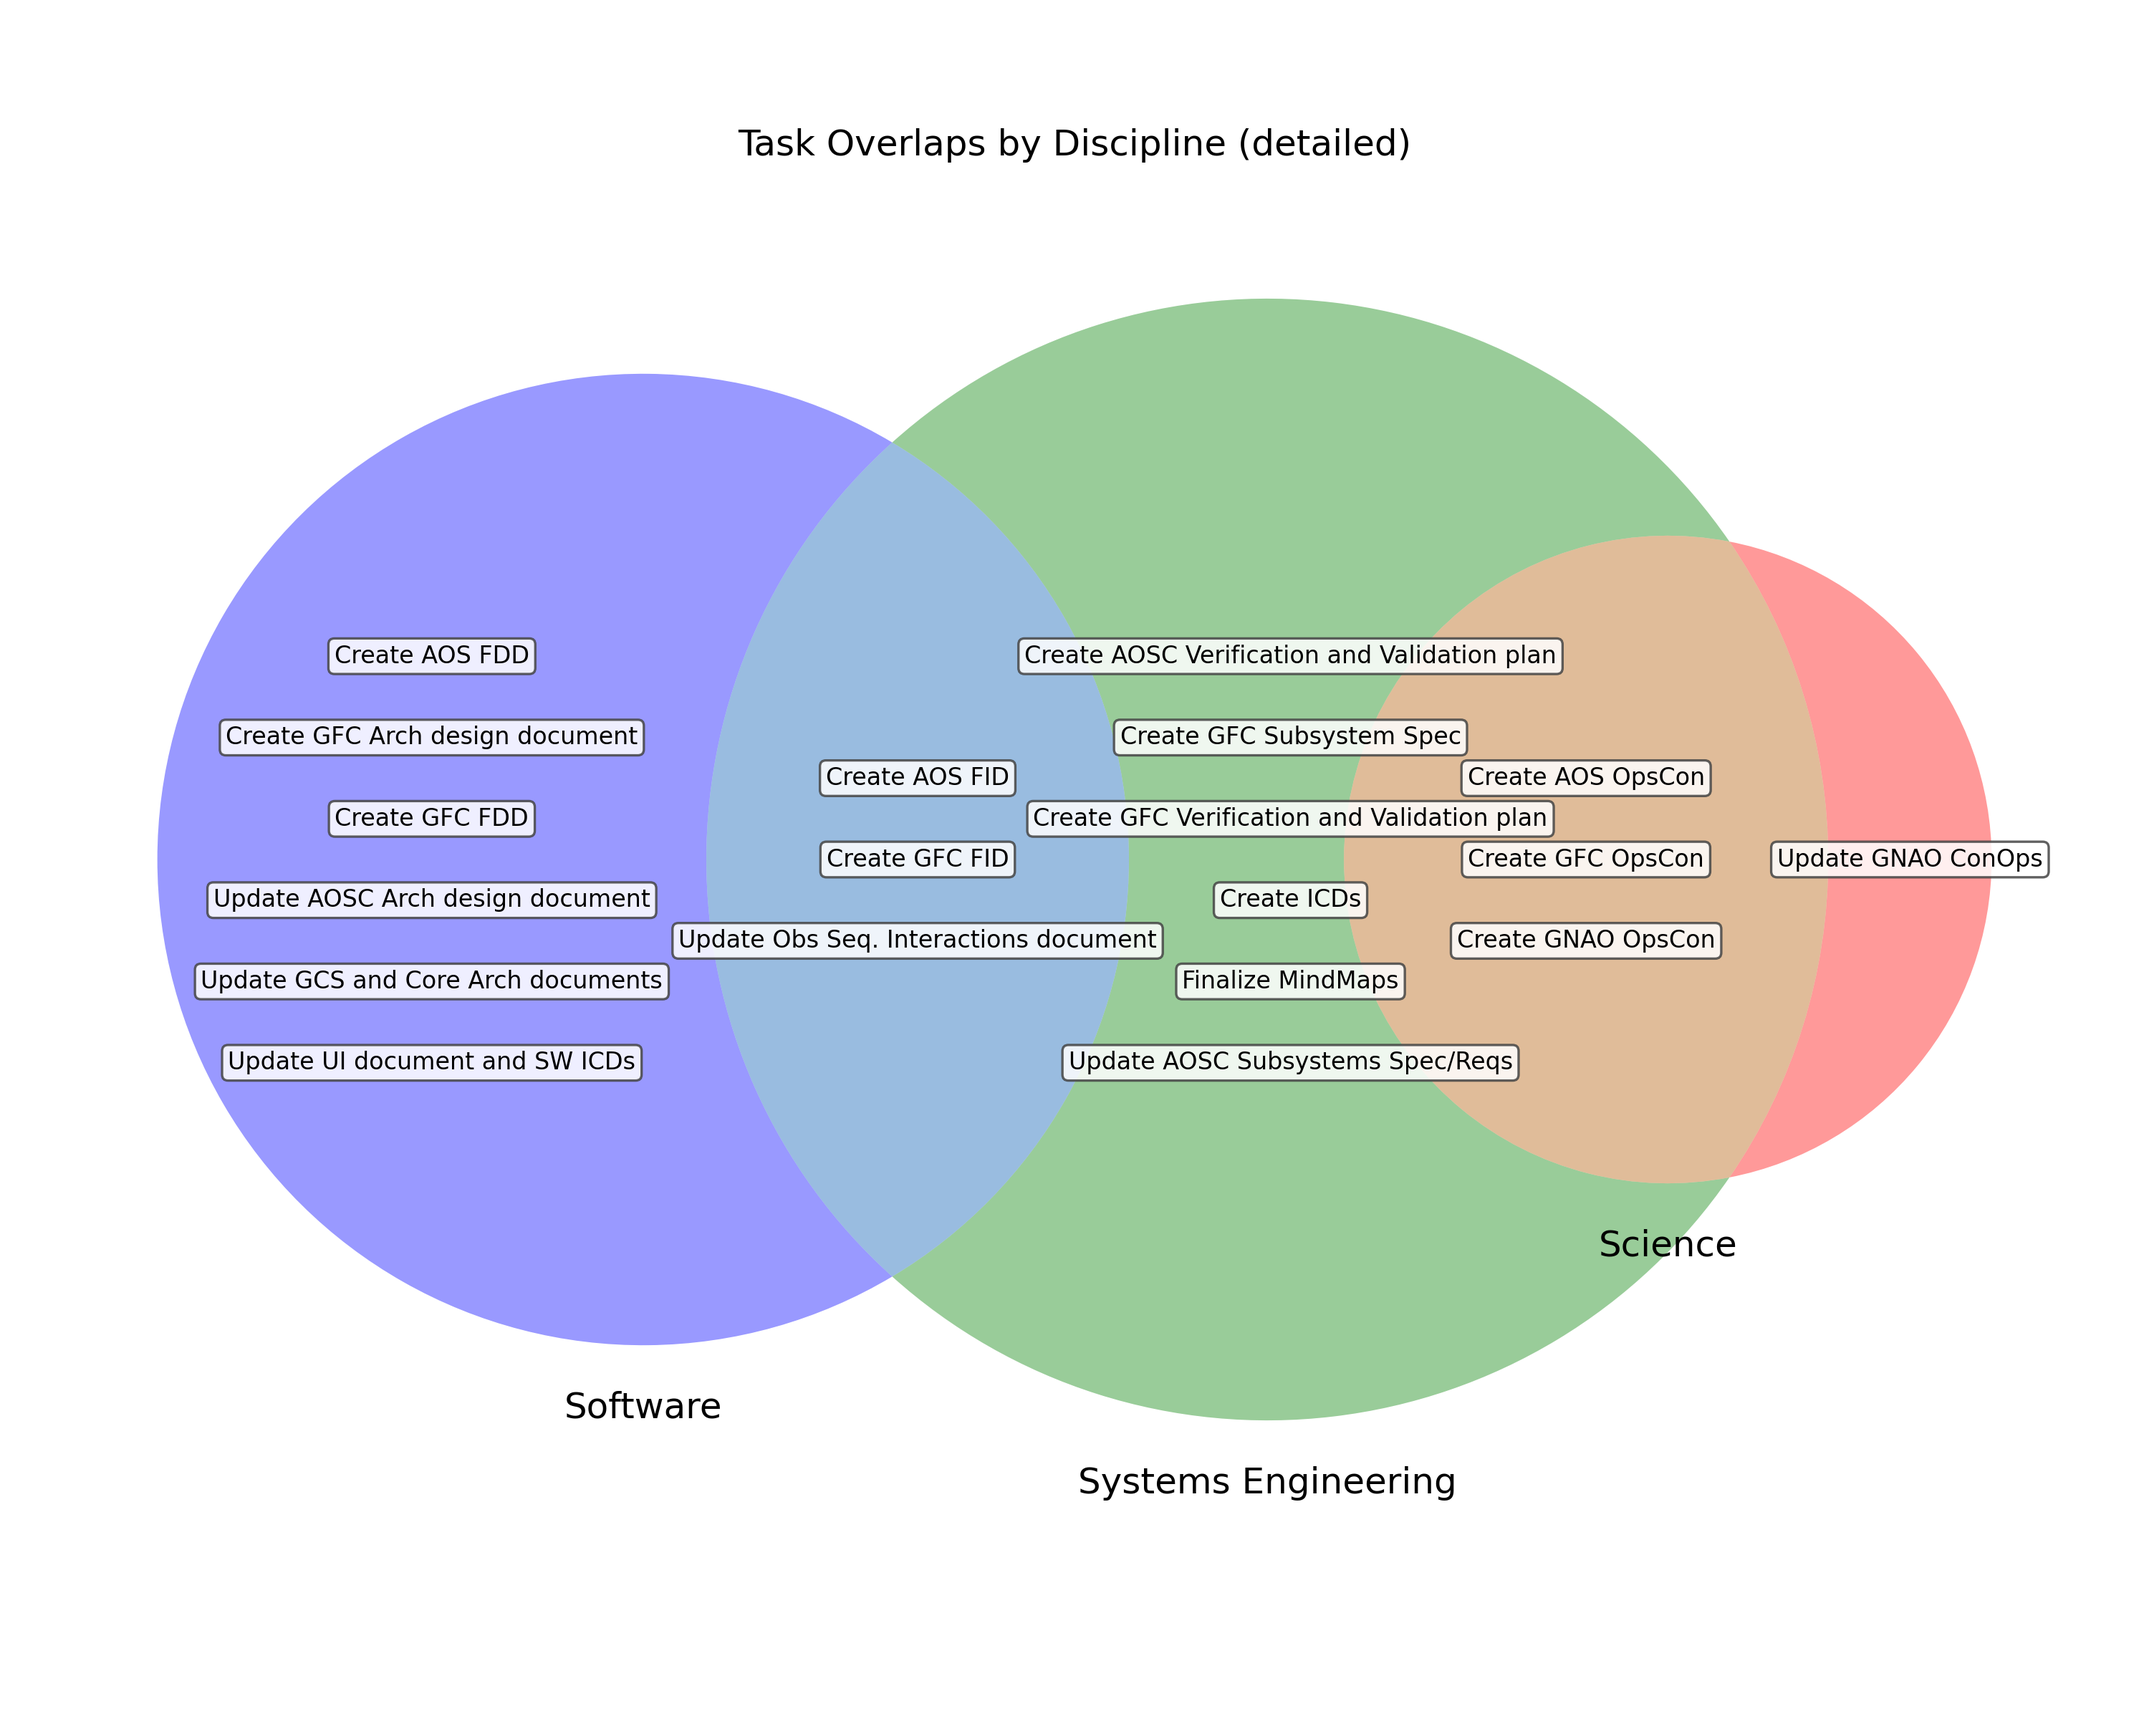
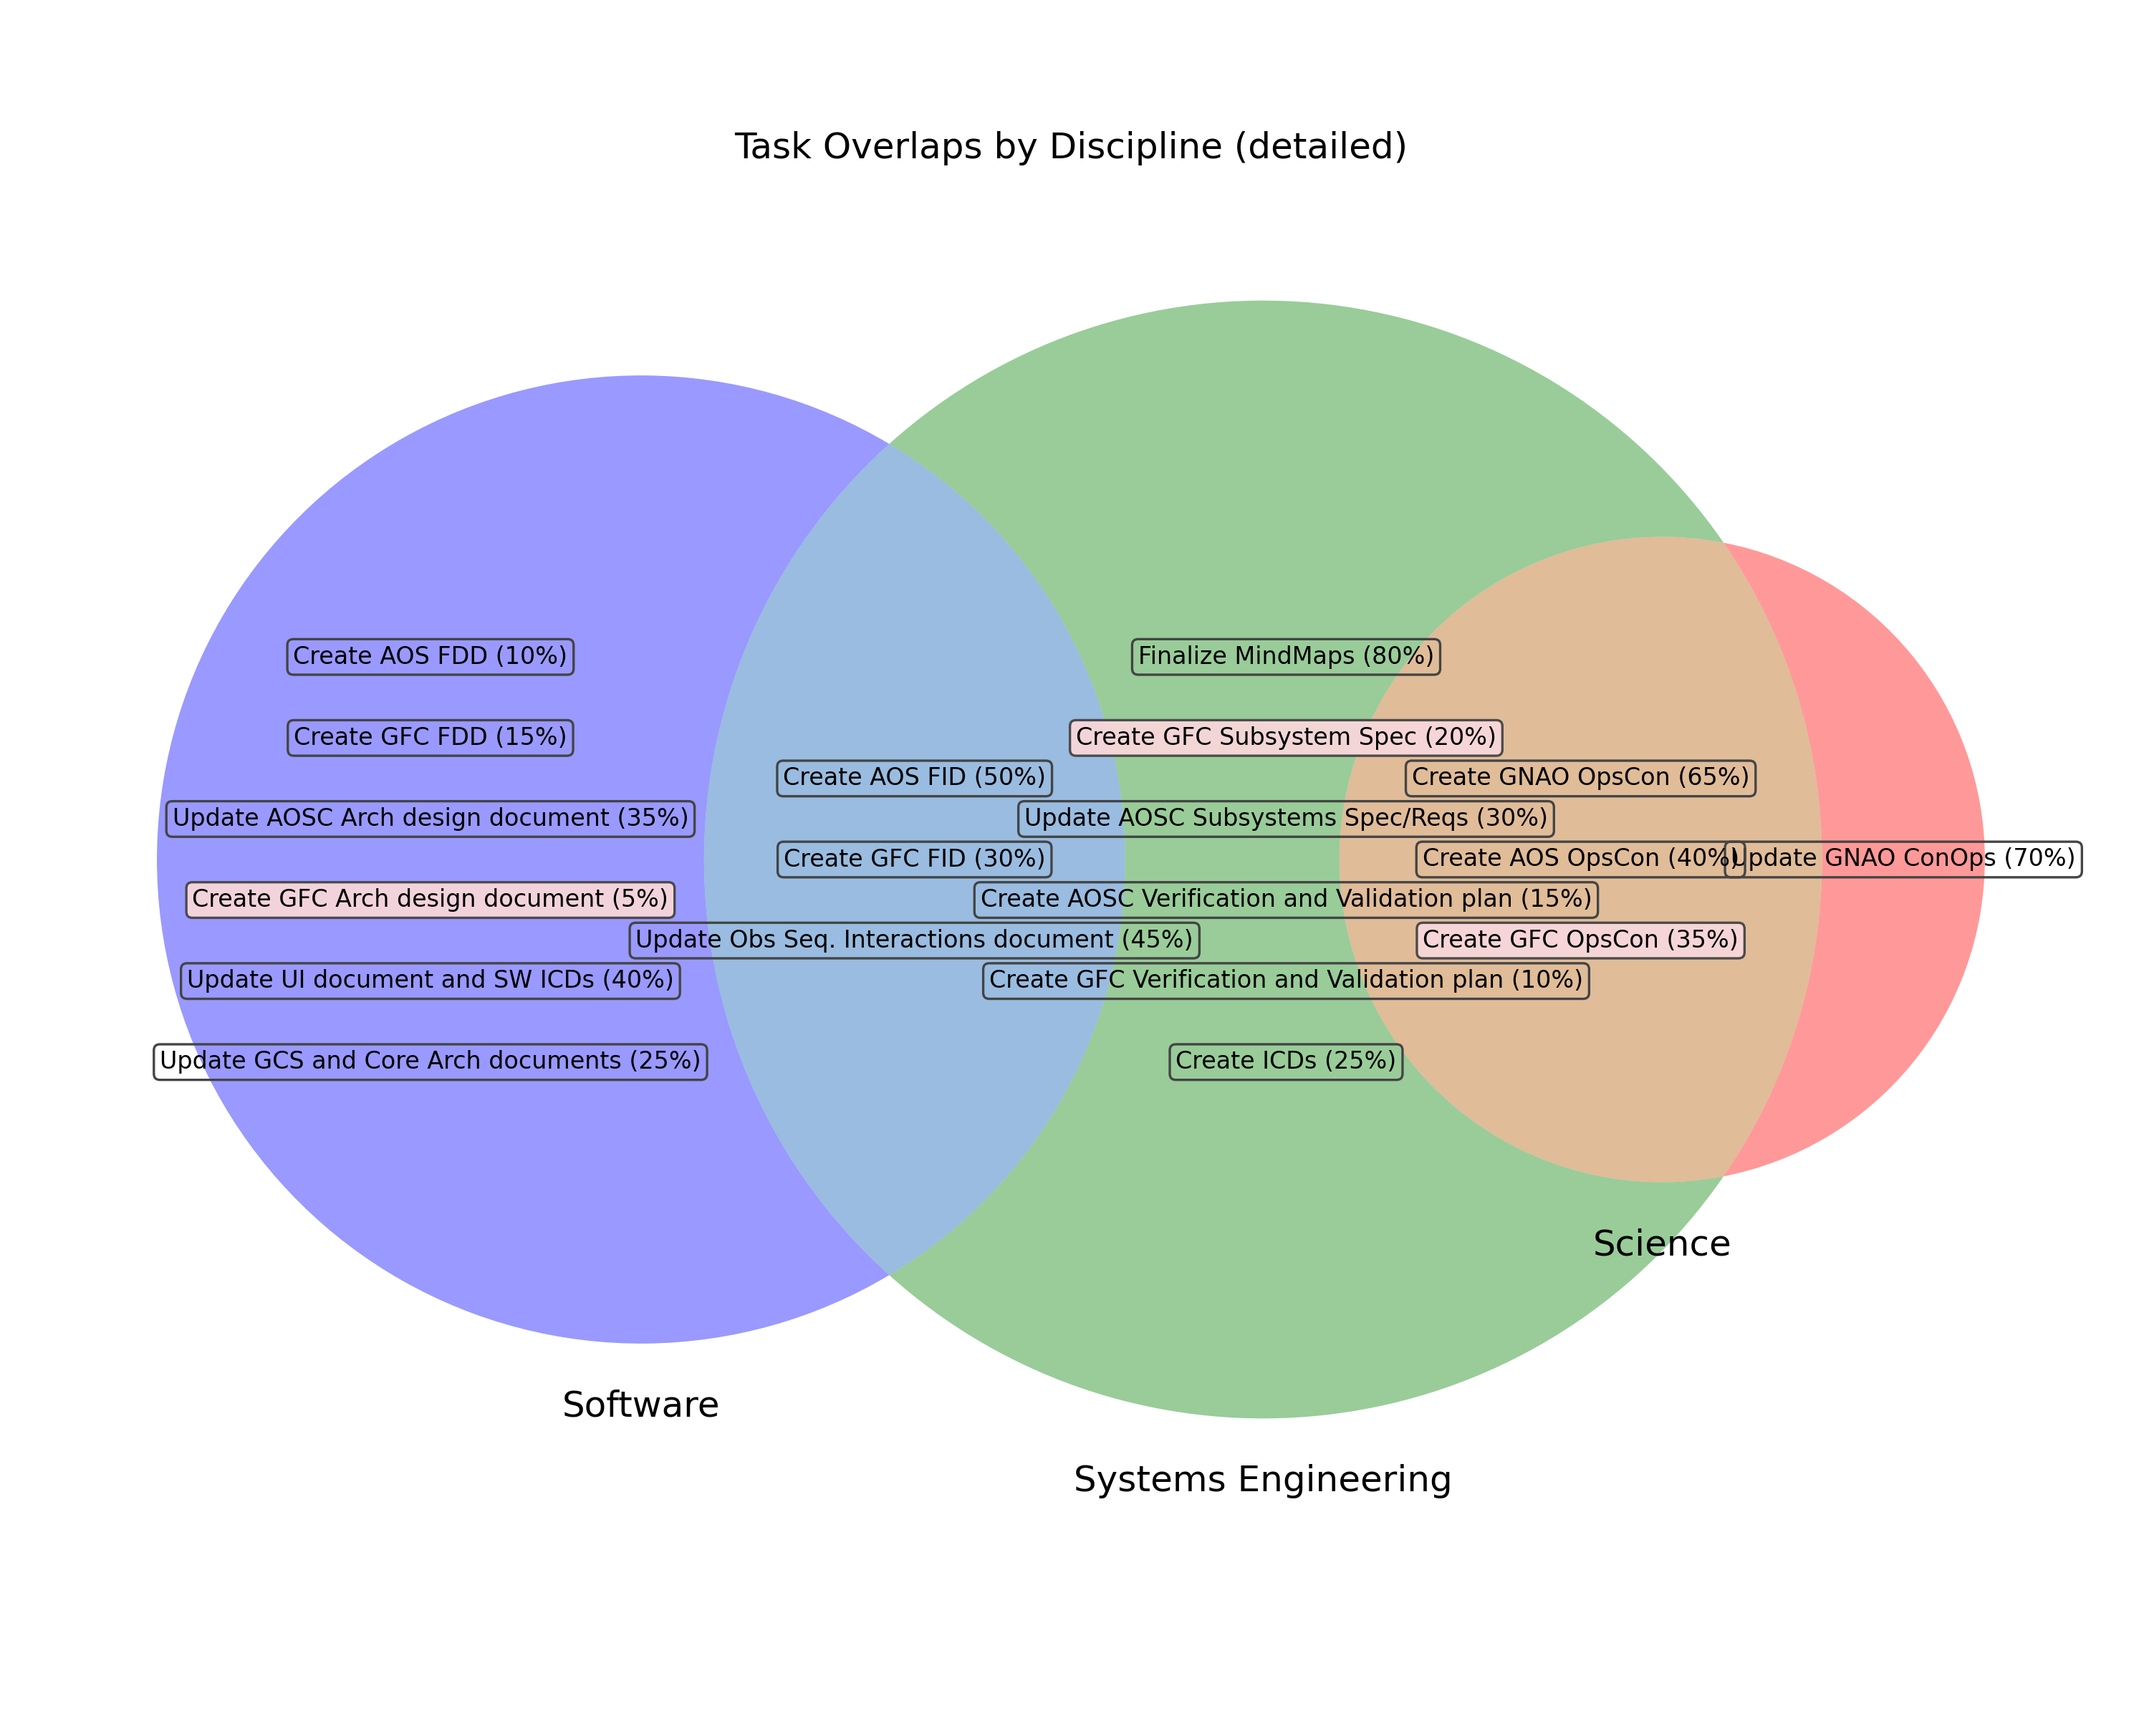
Enhance status visualizations and documentation

diff --git a/create_task_diagrams.py b/create_task_diagrams.py
@@ -16,12 +16,15 @@ import numpy as np
 matplotlib.use("Agg")
 import matplotlib.pyplot as plt  # noqa: E402
 from matplotlib import colors as mcolors  # noqa: E402
+from matplotlib import colormaps  # noqa: E402
+from matplotlib import patches  # noqa: E402
 from matplotlib_venn import venn3  # noqa: E402
 
 CONFIG_PATH = Path("index_config.yaml")
 OUTPUTS = {
     "venn": Path("tasks_venn.png"),
     "venn_detailed": Path("tasks_venn_detailed.png"),
+    "venn_detailed_no_pct": Path("tasks_venn_detailed_no_pct.png"),
     "bars": Path("category_combinations_bar.png"),
     "network": Path("category_task_network.png"),
     "heatmap": Path("category_task_heatmap.png"),
@@ -42,10 +45,15 @@ def extract_tasks(config: dict) -> list[dict[str, object]]:
         section_categories = set(section.get("categories", []))
         for task in section.get("tasks", []):
             task_categories = set(task.get("categories", [])) or section_categories
+            completion = int(task.get("completion", section.get("completion", 0)) or 0)
+            completion = max(0, min(100, completion))
+            blocker = bool(task.get("blocker", section.get("blocker", False)))
             tasks.append({
                 "name": task["label"],
                 "categories": task_categories,
                 "parent_section": section["label"],
+                "completion": completion,
+                "blocker": blocker,
             })
     if not tasks:
         raise ValueError("No tasks defined in the configuration.")
@@ -77,7 +85,22 @@ def draw_venn(category_sets: dict[str, set[str]], category_order: list[str]) -> 
     plt.close()
 
 
-def draw_venn_detailed(category_sets: dict[str, set[str]], category_order: list[str]) -> None:
+def completion_to_color(percent: int) -> str:
+    """Map a completion percentage to a hex color."""
+    normalized = max(0, min(100, percent)) / 100
+    cmap = colormaps["Greens"]
+    rgba = cmap(0.3 + 0.7 * normalized)
+    return mcolors.to_hex(rgba)
+
+
+def draw_venn_detailed(
+    category_sets: dict[str, set[str]],
+    tasks: list[dict[str, object]],
+    category_order: list[str],
+    show_percentage: bool = True,
+    output_path: Path | None = None,
+    title_suffix: str = "",
+) -> None:
     plt.figure(figsize=(10, 8))
     venn = venn3(
         subsets=(
@@ -87,55 +110,93 @@ def draw_venn_detailed(category_sets: dict[str, set[str]], category_order: list[
         ),
         set_labels=category_order,
     )
-    science = category_sets[category_order[0]]
-    systems = category_sets[category_order[1]]
-    software = category_sets[category_order[2]]
-    region_map = {
-        "100": sorted(science - systems - software),
-        "010": sorted(systems - science - software),
-        "001": sorted(software - science - systems),
-        "110": sorted((science & systems) - software),
-        "101": sorted((science & software) - systems),
-        "011": sorted((systems & software) - science),
-        "111": sorted(science & systems & software),
-    }
-    for region_id, tasks in region_map.items():
+    region_map = {key: [] for key in ["100", "010", "001", "110", "101", "011", "111"]}
+    for task in tasks:
+        region_key = "".join("1" if cat in task["categories"] else "0" for cat in category_order)
+        if region_key.count("1") == 0:
+            continue
+        region_map.setdefault(region_key, []).append(task)
+
+    ax = plt.gca()
+
+    pending_progress: list[tuple[plt.Text, int]] = []
+
+    for region_id, task_list in region_map.items():
         label = venn.get_label_by_id(region_id)
         if label is None:
             continue
         center = label.get_position()
         label.set_text("")
-        if not tasks:
+        if not task_list:
             continue
-        cols = 1 if len(tasks) <= 6 else 2
-        rows = math.ceil(len(tasks) / cols)
+        cols = 1 if len(task_list) <= 6 else 2
+        rows = math.ceil(len(task_list) / cols)
         dx = 0.12 / cols if cols > 1 else 0
         dy = 0.065
         start_x = center[0] - (cols - 1) * dx / 2
         start_y = center[1] + (rows - 1) * dy / 2
-        for idx, task in enumerate(tasks):
+        for idx, task in enumerate(task_list):
             row = idx // cols
             col = idx % cols
             x = start_x + col * dx
             y = start_y - row * dy
-            plt.text(
+            completion = int(task.get("completion", 0))
+            blocker = bool(task.get("blocker", False))
+            text = f"{task['name']} ({completion}%)" if show_percentage else task["name"]
+            base_color = "#F8D7DA" if blocker else "none"
+            base_alpha = 0.95 if blocker else 1.0
+            text_obj = plt.text(
                 x,
                 y,
-                task,
+                text,
                 ha="center",
                 va="center",
                 fontsize=8,
                 bbox={
                     "boxstyle": "round,pad=0.25",
-                    "facecolor": "#FFFFFF",
+                    "facecolor": base_color,
                     "edgecolor": "#444444",
                     "linewidth": 0.8,
-                    "alpha": 0.85,
+                    "alpha": base_alpha,
                 },
+                zorder=3,
             )
-    plt.title("Task Overlaps by Discipline (detailed)")
+            bbox_patch = text_obj.get_bbox_patch()
+            bbox_patch.set_zorder(2)
+            if not blocker and completion > 0:
+                pending_progress.append((text_obj, completion))
+
+    fig = plt.gcf()
+    fig.canvas.draw()
+    renderer = fig.canvas.get_renderer()
+    inv = ax.transData.inverted()
+    for text_obj, completion in pending_progress:
+        bbox_patch = text_obj.get_bbox_patch()
+        bbox_disp = bbox_patch.get_window_extent(renderer=renderer)
+        (x0, y0) = inv.transform((bbox_disp.x0, bbox_disp.y0))
+        (x1, y1) = inv.transform((bbox_disp.x1, bbox_disp.y1))
+        width = x1 - x0
+        height = y1 - y0
+        progress_width = width * (completion / 100)
+        progress = patches.Rectangle(
+            (x0, y0),
+            progress_width,
+            height,
+            linewidth=0,
+            facecolor=completion_to_color(completion),
+            alpha=0.85,
+            zorder=2.5,
+            transform=ax.transData,
+        )
+        progress.set_clip_path(bbox_patch)
+        ax.add_patch(progress)
+    title = "Task Overlaps by Discipline (detailed)"
+    if title_suffix:
+        title = f"{title} {title_suffix}"
+    plt.title(title)
     plt.tight_layout()
-    plt.savefig(OUTPUTS["venn_detailed"], dpi=300)
+    out_path = output_path or OUTPUTS["venn_detailed"]
+    plt.savefig(out_path, dpi=300)
     plt.close()
 
 
@@ -232,7 +293,15 @@ def main() -> None:
     category_sets = build_category_sets(tasks, category_order)
 
     draw_venn(category_sets, category_order)
-    draw_venn_detailed(category_sets, category_order)
+    draw_venn_detailed(category_sets, tasks, category_order)
+    draw_venn_detailed(
+        category_sets,
+        tasks,
+        category_order,
+        show_percentage=False,
+        output_path=OUTPUTS["venn_detailed_no_pct"],
+        title_suffix="(names only)",
+    )
     draw_bar_chart(tasks)
     draw_network(tasks, category_order)
     draw_heatmap(tasks, category_order)

diff --git a/README.md b/README.md
@@ -1,12 +1,12 @@
 # GCS Plan Visualization
 
-Tools for parsing the `GCS Plan to get to CDR.md` document and generating multiple visual summaries of the Science / Systems Engineering / Software workload. Task names and category mappings now live in `index_config.yaml`, so you can update the hierarchy without editing code.
+Tools for parsing the `GCS Plan to get to CDR.md` document and generating multiple visual summaries of the Science / Systems Engineering / Software workload. Task names, categories, and status metadata now live in `index_config.yaml`, so you can update the hierarchy without editing code.
 
 ## Contents
 - `generate_index_graph.py`: Builds a directed graph from the markdown index to show the hierarchy of sections and tasks.
 - `create_task_diagrams.py`: Extracts tasks per discipline and exports five diagrams (simple + detailed Venn, bar chart, bipartite network, heatmap).
 - `design.txt`: High-level design notes covering parsing logic and visualization goals.
-- `index_config.yaml`: Source of truth for sections, tasks, and category assignments.
+- `index_config.yaml`: Source of truth for sections, tasks, category assignments, completion percentages, and blocker flags.
 
 ## Requirements
 - Python 3.11 (runs inside the existing `py3.11` conda environment).
@@ -18,12 +18,20 @@ Tools for parsing the `GCS Plan to get to CDR.md` document and generating multip
 conda run -n py3.11 python create_task_diagrams.py
 conda run -n py3.11 python generate_index_graph.py
 ```
-Each script reads `index_config.yaml` (and, for context, `GCS Plan to get to CDR.md`) from the repo root and writes PNG files alongside the source. To rename tasks or adjust category assignments, edit `index_config.yaml` and rerun the scripts.
+Each script reads `index_config.yaml` (and, for context, `GCS Plan to get to CDR.md`) from the repo root and writes PNG files alongside the source. To rename tasks, adjust category assignments, or update completion/blocker metadata, edit `index_config.yaml` and rerun the scripts.
+
+## Configuration Fields
+Every task entry in `index_config.yaml` supports:
+- `label`: Display name shown in all diagrams.
+- `categories`: Optional override for the section categories.
+- `completion`: Integer 0–100. The detailed Venn diagram appends this percentage to the task label and renders a progress bar (light-to-dark green fill) behind the text that scales with completion.
+- `blocker`: Boolean (default `false`). When `true`, the detailed Venn diagram highlights the task badge in light red to flag the blockage (overriding completion shading).
 
 ## Outputs
 - `index_graph.png`: Hierarchical view derived from the markdown index.
 - `tasks_venn.png`: Clean three-set Venn diagram.
-- `tasks_venn_detailed.png`: Venn with task names rendered inside each overlap.
+- `tasks_venn_detailed.png`: Venn with task names plus completion percentages and progress bars.
+- `tasks_venn_detailed_no_pct.png`: Same as above but hides the percentage text for presentation contexts that prefer only task names.
 - `category_combinations_bar.png`: Category-combo counts.
 - `category_task_network.png`: Bipartite category ↔ task graph.
 - `category_task_heatmap.png`: Membership matrix.
